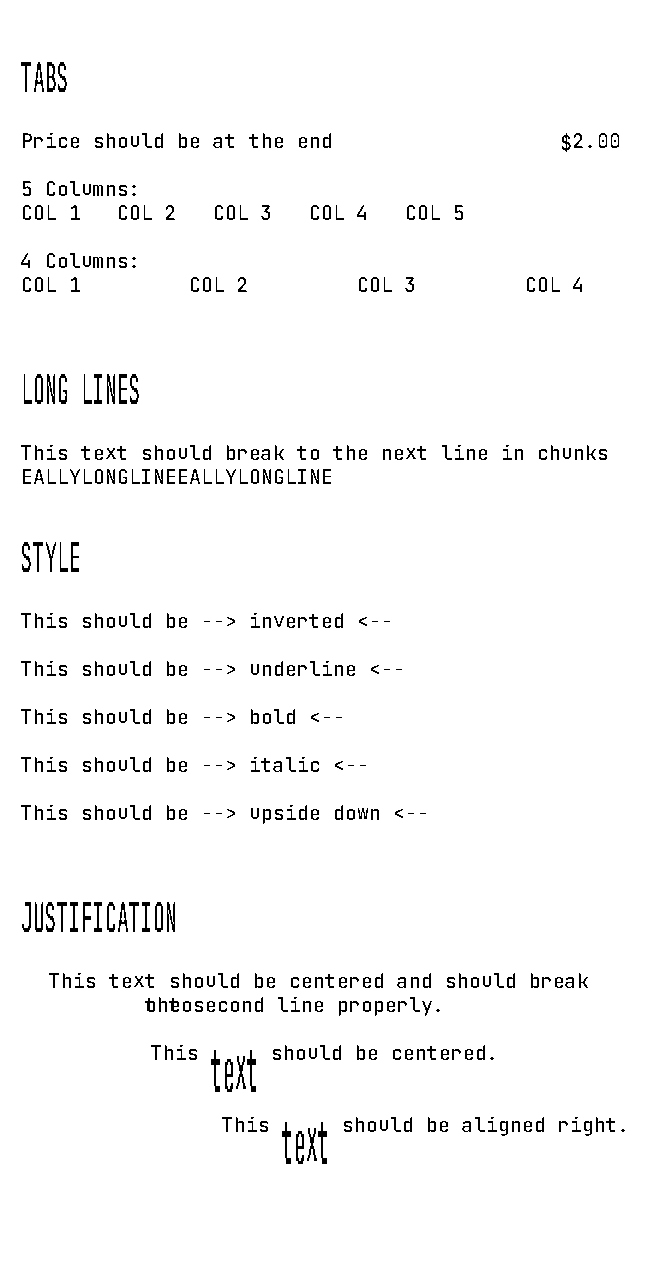
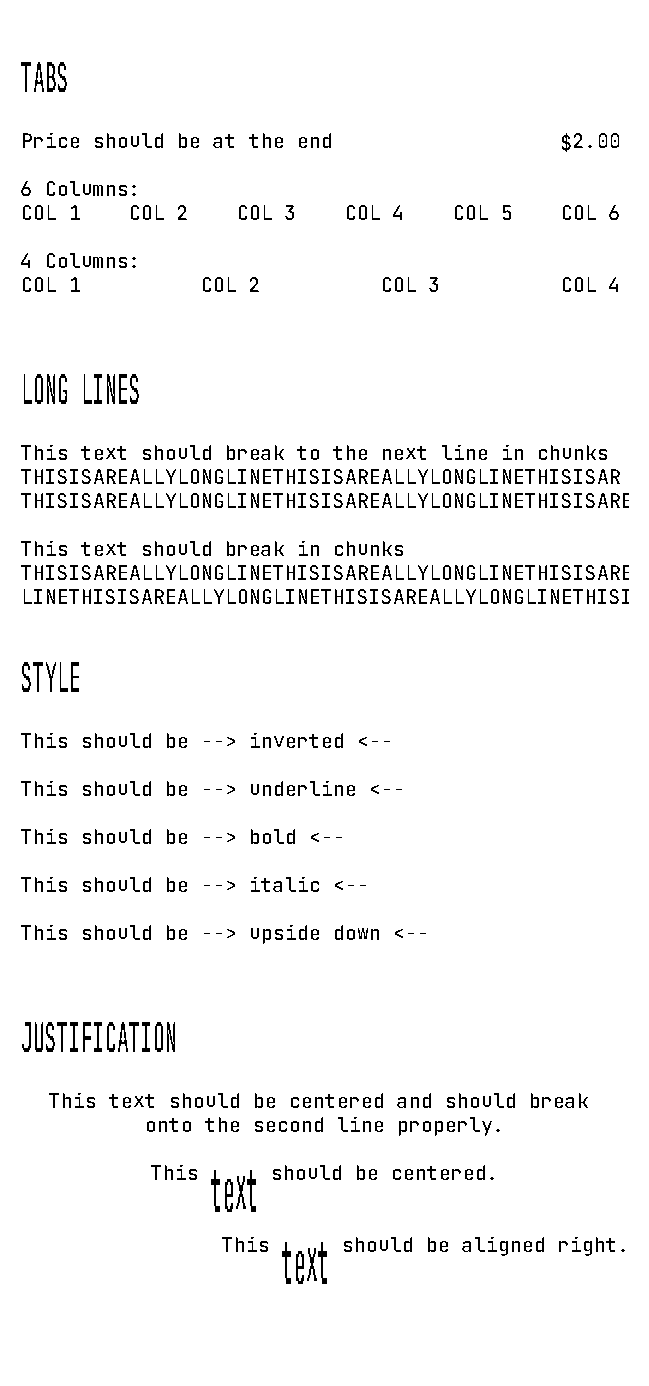
More typography fixes

diff --git a/thermal_renderer/src/renderer.rs b/thermal_renderer/src/renderer.rs
@@ -343,17 +343,32 @@ impl<'a, Output> Renderer<'a, Output> {
                     (max_width / word.character_width) as usize,
                 );
 
-                //Add the part that fits into the line
-                word.get_dimensions(&self.context);
-                self.context.offset_x(word.get_width());
-                current_line.push(word);
+                //Start of broken word can fit on current line
+                if word_width <= avail_width {
+                    //Add the part that fits into the line
+                    word.get_dimensions(&self.context);
+                    self.context.offset_x(word.get_width());
+                    current_line.push(word);
 
-                //Line is full
-                let mut finished_line = vec![];
-                mem::swap(&mut current_line, &mut finished_line);
-                lines.push(finished_line);
-                self.context.newline(current_line_height_mult);
+                    //Line is full
+                    let mut finished_line = vec![];
+                    mem::swap(&mut current_line, &mut finished_line);
+                    lines.push(finished_line);
+                    self.context.newline(current_line_height_mult);
+                }
+                //Start of broken word can NOT fit on current line
+                else {
+                    //Line is full
+                    let mut finished_line = vec![];
+                    mem::swap(&mut current_line, &mut finished_line);
+                    lines.push(finished_line);
+                    self.context.newline(current_line_height_mult);
 
+                    //Add the part that fits into the line
+                    word.get_dimensions(&self.context);
+                    self.context.offset_x(word.get_width());
+                    current_line.push(word);
+                }
 
                 // Handle remaining parts of the broken word
                 if broken.is_empty() { continue; }
@@ -364,8 +379,10 @@ impl<'a, Output> Renderer<'a, Output> {
                     current_line.push(broke.clone()); //ugg
 
                     if last {
+                        println!("LAST BROKEN WORD {}", broke.text);
                         self.context.offset_x(broke.get_width());
                     } else {
+                        println!("BROKEN WORD {}", broke.text);
                         let mut finished_line = vec![];
                         mem::swap(&mut current_line, &mut finished_line);
                         lines.push(finished_line);
@@ -379,14 +396,20 @@ impl<'a, Output> Renderer<'a, Output> {
                 }
 
             } else {
-                //Close out previous line and add word to a newline
+                //Close out previous line
                 let mut finished_line = vec![];
                 mem::swap(&mut current_line, &mut finished_line);
                 lines.push(finished_line);
                 self.context.newline(current_line_height_mult);
+                
+                //Add text to newline at 0 x
+                let word_width = word.get_width();
                 word.get_dimensions(&self.context);
                 current_line.push(word);
                 current_line_height_mult = 1;
+                
+                //Advance the x
+                self.context.offset_x(word_width);
             }
         }
 

diff --git a/thermal_parser/src/text.rs b/thermal_parser/src/text.rs
@@ -90,7 +90,7 @@ impl TextSpan {
 
         if text.len() - 1  < rest_at { return spans; }
         
-        let mut last = &text[rest_at..];
+        let mut last = &text[first_at..];
 
         // Now break the `last` string into spans of size `rest_at`
         while !last.is_empty() {
